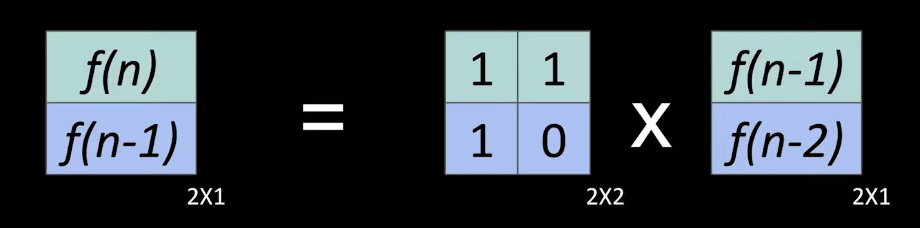
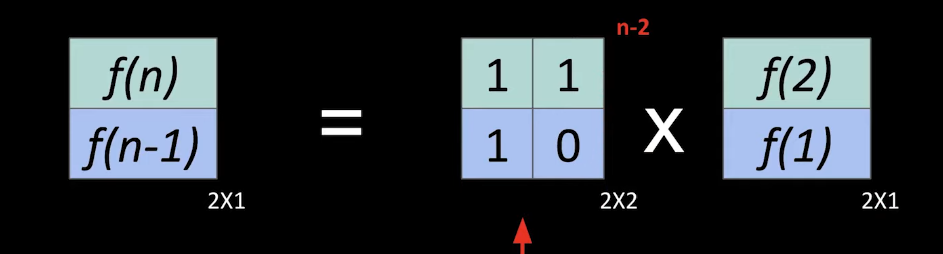
matrix exponentiation code

diff --git a/NumberTheory/numberTheory.md b/NumberTheory/numberTheory.md
@@ -27,6 +27,92 @@ ll pow(ll a, ll n, ll m){
 #### Fibonacci series
 ![image2](images/matrixExponentiation2.png)
 
+``` c++
+// general code for matrix exponentiation
+#include <bits/stdc++.h>
+using namespace std;
+#define ll long long
+#define m 1000000007
+// #define f first
+// #define s second
+
+void multiply(vector<vector<int>>& a, vector<vector<int>>& b){
+    vector<vector<int>> res(a.size(), vector<int>(b[0].size(), 0));
+    for (int i=0; i<a.size(); i++){
+        for (int j=0; j<b[0].size(); j++){
+            for (int k=0; k<a.size(); k++){
+                res[i][j] = (0LL + res[i][j] + (1LL * a[i][k] * b[k][j]) % m) % m;
+            }
+        }
+    }
+
+    // copy res to a
+    for (int i=0; i<a.size(); i++){
+        for (int j=0; j<b[0].size(); j++){
+            a[i][j]= res[i][j];
+        }
+    }
+}
+
+vector<vector<int>> modPow(vector<vector<int>>& a, ll n){
+    if (n==0LL) {
+        vector<vector<int>> temp(a.size(), vector<int>(a[0].size(), 0));
+        for (int i=0; i<a.size(); i++) temp[i][i]= 1;
+        return temp;
+    }
+
+    if (n==1LL) return a;
+
+    vector<vector<int>> temp= modPow(a, n>>1);
+    multiply(temp, temp);
+    if (n & 1LL) multiply(temp, a);
+
+    return temp;
+}
+
+int main() { 
+#ifndef ONLINE_JUDGE
+    freopen("in.txt", "r", stdin);
+    freopen("out.txt", "w", stdout);
+#endif
+ 
+    ios_base::sync_with_stdio(false);
+    cin.tie(NULL);
+ 
+    int T=1;
+    cin>> T;
+    while (T--){
+        // start
+        //
+        ll n=2, t;
+        vector<vector<int>> a(n, vector<int>(n, 0));
+        for (int j=0; j<n; j++) cin >> a[0][j];         // can initialize to 1 if no weights are there
+        cin >> t;
+
+        for (int i=1; i<n; i++) a[i][i-1]= 1;
+
+        vector<vector<int>> dp(n, vector<int>(1, 0));
+        for (int i=0; i<n; i++){
+            dp[i][0]= a[0][i];
+            for (int j=0; j<i; j++){
+                dp[i][0] = (dp[i][0] + (1LL * a[0][j] * dp[i-j-1][0]) % m) % m;
+            }
+        }
+
+        if (t<=n) {
+            cout << dp[t-1][0] << endl;
+        } else {
+            reverse(dp.begin(), dp.end());
+            vector<vector<int>> temp= modPow(a, t-n);
+            multiply(temp, dp);
+            cout << temp[0][0] << endl;
+        }
+    }
+ 
+    return 0;
+}   
+```
+
 ### Euclidean Algorithm
 #### Computing gcd using Euclidean algorithm
 ``` c++
